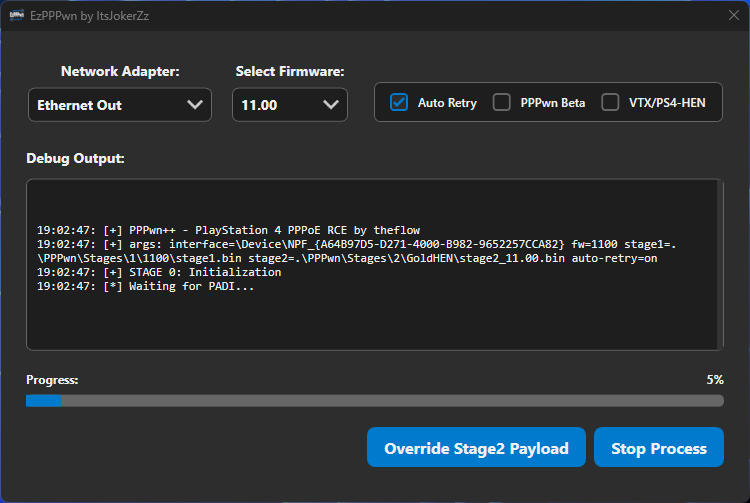
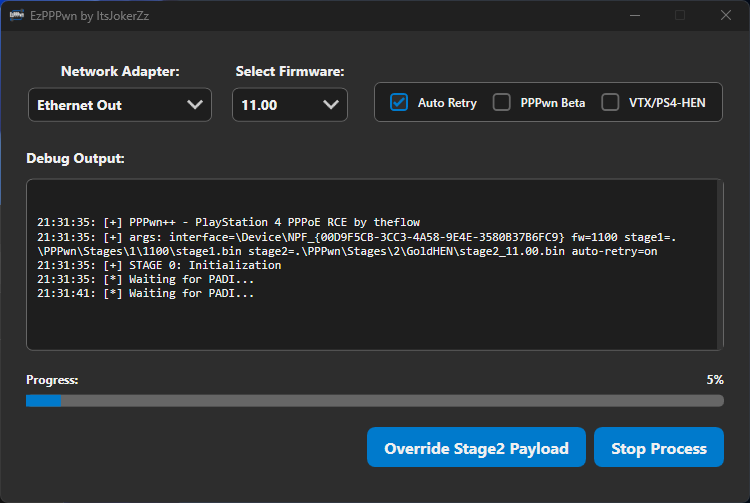
Allow Resizing

diff --git a/MainWindow.xaml b/MainWindow.xaml
@@ -4,7 +4,7 @@
         xmlns:av="http://schemas.microsoft.com/expression/blend/2008" xmlns:mc="http://schemas.openxmlformats.org/markup-compatibility/2006" mc:Ignorable="av" x:Class="EzPPPwn.MainWindow"
         xmlns:chapter="clr-namespace:Chapter.Net.WPF.SystemTray;assembly=Chapter.Net.WPF.SystemTray"
         Title="EzPPPwn by ItsJokerZz" Height="510" Width="764"
-        ResizeMode="NoResize" WindowStartupLocation="CenterScreen"
+        ResizeMode="CanMinimize" WindowStartupLocation="CenterScreen"
         Background="{DynamicResource ColorDarkBrush}">
 
     <Window.Resources>
